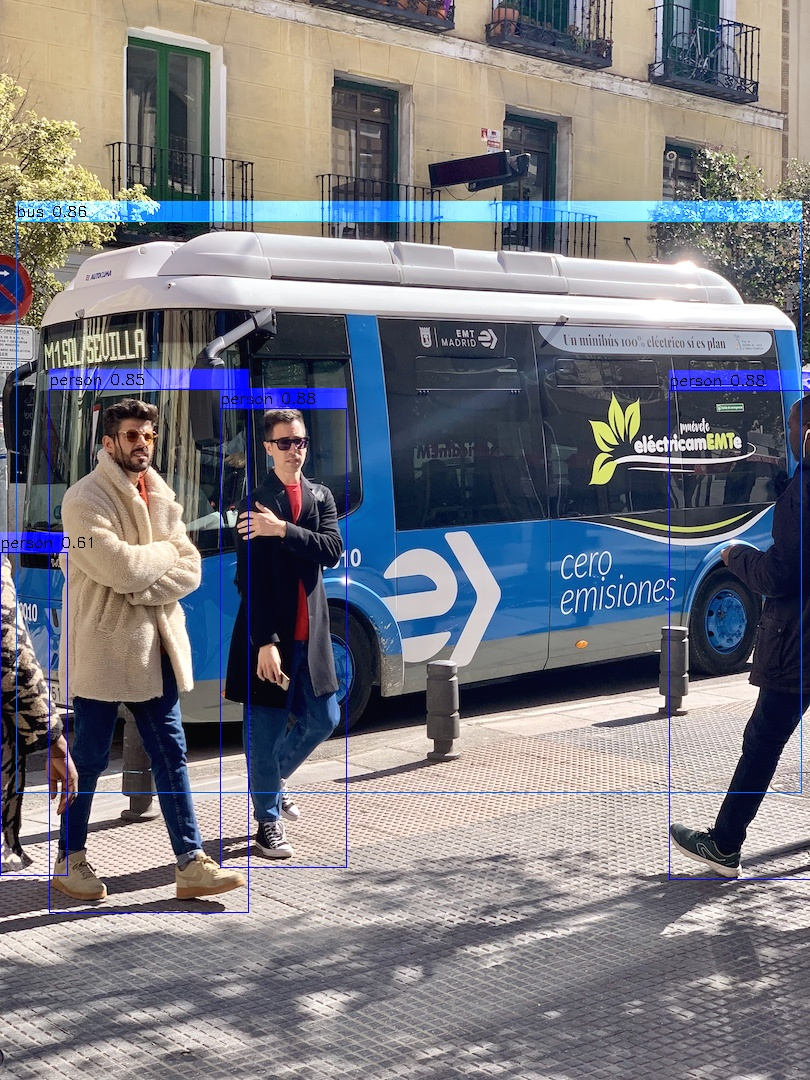
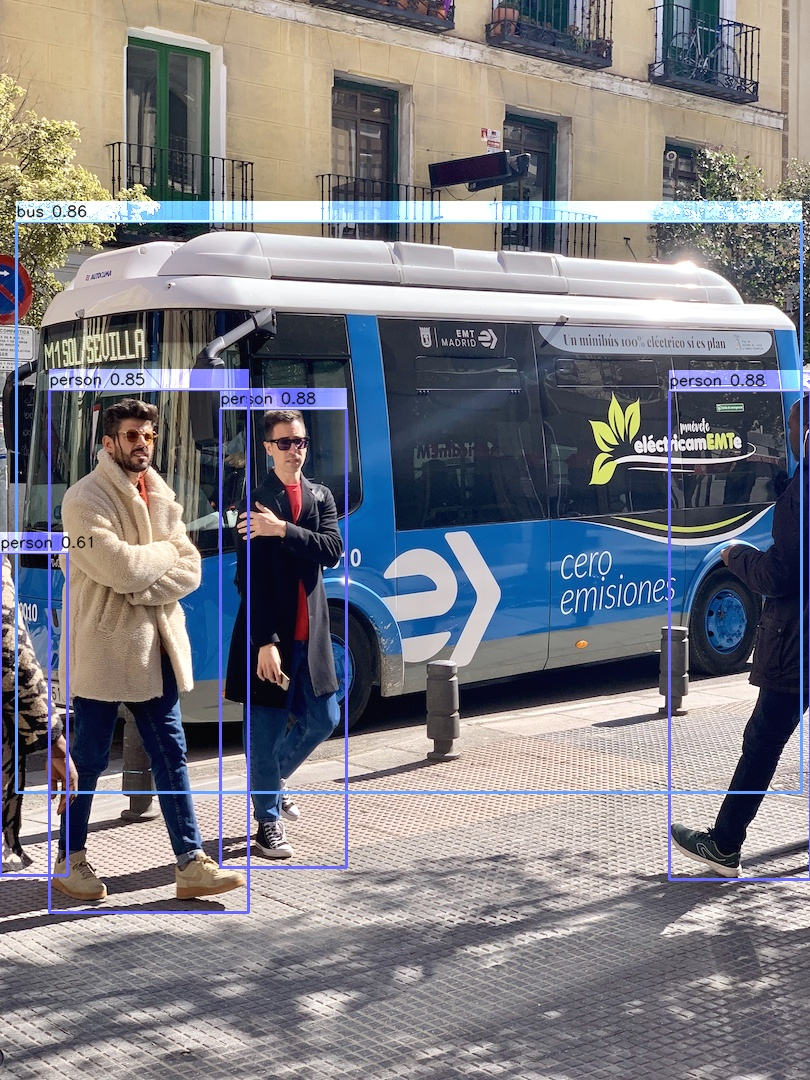
draw update

Changed region(s): [[0.0, 0.1833, 1.0, 0.8556]]

diff --git a/utils/inference.py b/utils/inference.py
@@ -157,7 +157,7 @@ class Inference(ABC):
             print( f"Bbox {i} Class: {classId}, Confidence: {'{:.2f}'.format(confidence)}, coords: [ xmin: {xmin}, ymin: {ymin}, xmax: {xmax}, ymax: {ymax} ]" )
 
             # 绘制框
-            image = cv2.rectangle(image, (xmin, ymin), (xmax, ymax), colors[classId], 1)
+            image = cv2.rectangle(image, (xmin, ymin), (xmax, ymax), colors[classId], 2)
             # 直接在原图上绘制文字背景，不透明
             # image = cv2.rectangle(image, (xmin, ymin - 20), (xmax, ymax)), colors[classId], cv2.FILLED)
             # 添加文字背景
@@ -166,8 +166,15 @@ class Inference(ABC):
             # 叠加原图和文字背景，文字背景是透明的
             image = cv2.addWeighted(image, 1.0, temp_image, 1.0, 1)
             # 添加文字
-            image = cv2.putText(image, str(self.config["names"][classId]) + " " + "{:.2f}".format(confidence),
-                            (xmin, ymin - 5), cv2.FONT_HERSHEY_SIMPLEX, 0.5, (0, 0, 0))
+            image = cv2.putText(img         = image,
+                                text        = str(self.config["names"][classId]) + " " + "{:.2f}".format(confidence),
+                                org         = (xmin, ymin - 5),
+                                fontFace    = 0,
+                                fontScale   = 0.5,
+                                color       = (0, 0, 0),
+                                thickness   = 1,
+                                lineType    = cv2.LINE_AA,
+                                )
 
         return image
 

diff --git a/utils/functions.py b/utils/functions.py
@@ -91,9 +91,12 @@ def mulit_colors(num_classes: int):
     #   https://github.com/bubbliiiing/yolov8-pytorch/blob/master/yolo.py#L88
     #   画框设置不同的颜色
     #---------------------------------------------------#
-    hsv_tuples = [(x / num_classes, 1., 1.) for x in range(num_classes)]
-    colors = list(map(lambda x: colorsys.hsv_to_rgb(*x), hsv_tuples))
-    colors = list(map(lambda x: (int(x[0] * 255), int(x[1] * 255), int(x[2] * 255)), colors))
+    #              hue saturation value
+    hsv_tuples = [(x / num_classes, 0.6, 1.) for x in range(num_classes)]
+    # colors = list(map(lambda x: colorsys.hsv_to_rgb(*x), hsv_tuples))
+    colors = [colorsys.hsv_to_rgb(*x) for x in hsv_tuples]
+    # colors = list(map(lambda x: (int(x[0] * 255), int(x[1] * 255), int(x[2] * 255)), colors))
+    colors = [(int(x[0] * 255), int(x[1] * 255), int(x[2] * 255)) for x in colors]
     return colors
 
 
